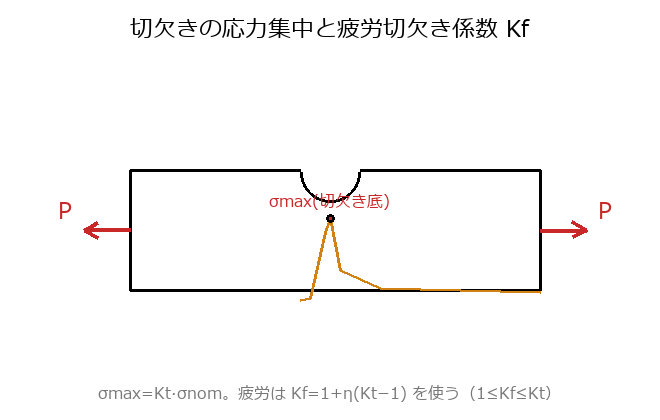
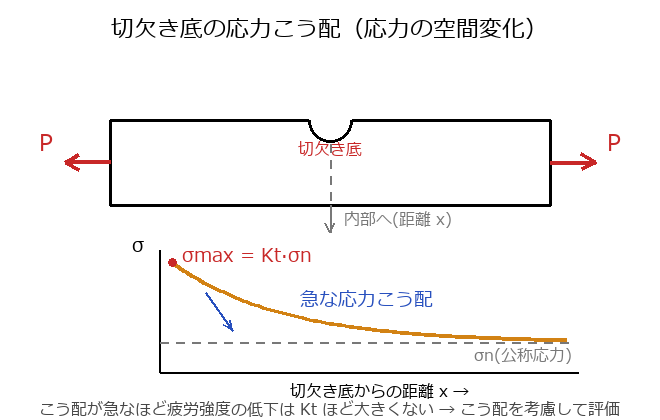
固体2級 2-38 再作成: 公式問2-38の主眼(応力こう配)に合わせ作り直し
公式標準問題「問2-38」は応力集中部の疲労強度評価で応力こう配を考慮
する最も正しい方法(正解①)を問う。旧問題はKf=1+η(Kt-1)の計算に寄り
主眼を外していた。原本抽出テキストで照合し、問い・選択肢・解説・図を
公式の論点に合わせて再構成。check_quality PASS。

diff --git a/tools/figs_s2_2_38.py b/tools/figs_s2_2_38.py
@@ -1,0 +1,78 @@
+# -*- coding: utf-8 -*-
+"""固体力学2級 第2章 問2-38 用の図(s2NotchStress)を再作成。
+主題=切欠き底の応力こう配(応力の空間変化)と疲労強度の関係。
+公式2-38 の正解①(こう配を考慮して評価)に合わせ、Kf式は前面に出さない。
+白地660x420。"""
+import sys, math
+sys.path.insert(0, r"C:\Users\jwpsa\Documents\desktop\claude\CAE\tools")
+from figlib import *
+
+
+def dashed(d, x1, y1, x2, y2, col=GRAY, wd=2, dash=8):
+    L = math.hypot(x2 - x1, y2 - y1)
+    n = max(1, int(L / dash))
+    ux, uy = (x2 - x1) / L, (y2 - y1) / L
+    for i in range(n):
+        if i % 2 == 0:
+            a, b = i * dash, min((i + 1) * dash, L)
+            d.line((x1 + ux * a, y1 + uy * a, x1 + ux * b, y1 + uy * b), fill=col, width=wd)
+
+
+im, d = new()
+title(d, "切欠き底の応力こう配（応力の空間変化）")
+
+# --- 上段: 切欠きをもつ帯板の引張 ---
+# 帯板本体(上辺に U 切欠き)
+d.line((110, 120, 308, 120), fill=BLACK, width=3)
+d.arc((308, 98, 352, 142), 0, 180, fill=BLACK, width=3)   # 上辺中央のU切欠き
+d.line((352, 120, 550, 120), fill=BLACK, width=3)
+d.line((550, 120, 550, 205), fill=BLACK, width=3)
+d.line((550, 205, 110, 205), fill=BLACK, width=3)
+d.line((110, 205, 110, 120), fill=BLACK, width=3)
+
+# 引張荷重 P
+force(d, 110, 162, -45, 0, "P", RED)
+force(d, 550, 162, 45, 0, "P", RED)
+
+# 切欠き底と断面(こう配を見る向き)
+ctext(d, 330, 150, "切欠き底", FT, RED)
+dashed(d, 330, 144, 330, 205)          # 切欠き底から板内部へ向かう断面
+arrow(d, 330, 205, 330, 232, GRAY, 2, 10)
+ctext(d, 398, 220, "内部へ(距離 x)", FT, GRAY)
+
+# --- 下段: 断面上の応力分布 σ(x) ---
+gx, gy = 160, 372          # 原点
+gtop, gright = 250, 578
+d.line((gx, gy, gright, gy), fill=BLACK, width=2)   # x軸
+d.line((gx, gy, gx, gtop), fill=BLACK, width=2)     # σ軸
+ctext(d, gx - 22, gtop - 4, "σ", FS)
+ctext(d, 380, 392, "切欠き底からの距離 x →", FT)
+
+y_sn, y_smax = 342, 262     # 公称応力・最大応力(σmax=Kt·σn)の縦位置
+x0, x1 = 172, 566
+# σ(x)= σn +(σmax-σn)e^{-k x} : 底で最大、内部へ急減 → 急な応力こう配
+pts = []
+for i in range(101):
+    t = i / 100
+    px = x0 + t * (x1 - x0)
+    py = y_sn + (y_smax - y_sn) * math.exp(-3.6 * t)
+    pts.append((px, py))
+d.line(pts, fill=ORANGE, width=4)
+
+# 公称応力 σn の水平線
+dashed(d, gx, y_sn, gright, y_sn, GRAY, 2, 8)
+ctext(d, gright - 6, y_sn + 14, "σn(公称応力)", FT, GRAY, "rm")
+
+# σmax(切欠き底)
+d.ellipse((x0 - 4, y_smax - 4, x0 + 4, y_smax + 4), fill=RED)
+ctext(d, x0 + 10, y_smax - 6, "σmax = Kt·σn", FS, RED, "lm")
+
+# 急なこう配の注記
+arrow(d, 205, 292, 232, 330, BLUE, 2, 10)
+ctext(d, 300, 300, "急な応力こう配", FS, BLUE, "lm")
+
+ctext(d, W / 2, 410,
+      "こう配が急なほど疲労強度の低下は Kt ほど大きくない → こう配を考慮して評価",
+      FT, (70, 70, 70))
+
+save(im, "s2NotchStress")
